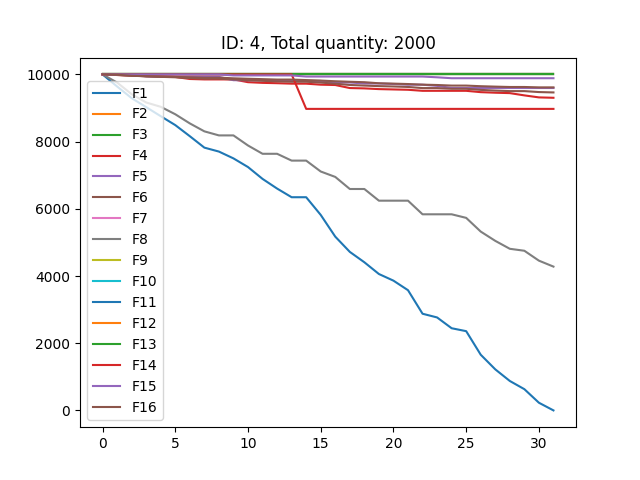
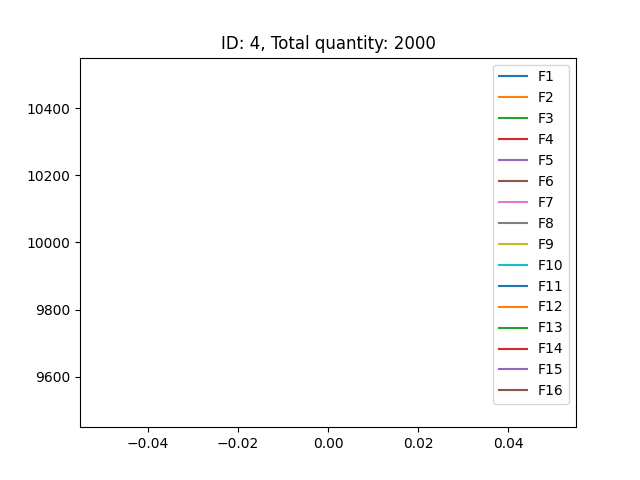
multiprocess

diff --git a/scrap_optimization.py b/scrap_optimization.py
@@ -30,7 +30,7 @@ class ScrapOptimization:
             "features": general_info.features
         }
         
-    def optimize(self, total_quantity:float, chemi_component:list, selected_stahl_name:str):
+    def optimize(self, total_quantity:float, chemi_component:list, selected_stahl_name:str, ns,supplier_quantity_hist,sim_id_hist):
         """
         Args:
             total_quantity (int): the total amount of scraps to optimize in kg 
@@ -48,7 +48,7 @@ class ScrapOptimization:
         df = df[self.general_info.features]   # extract the used features from the dataframe
         
         # convert the `Schrott` model to a pandas dataframe, and extract the `price` column
-        df_schrott = pd.read_csv(self.general_info.scrap_dataset)
+        df_schrott = ns.df_schrott # pd.read_csv(self.general_info.scrap_dataset)
         df_price = df_schrott["price"].to_numpy().astype(np.float32)
         company_count = int(df_schrott[["company"]].nunique())
         
@@ -247,12 +247,12 @@ class ScrapOptimization:
         ############################## Opt Running ##############################
         opt_result = []
         all_results = []
-        supplier_quantity_hist = []
+        # supplier_quantity_hist = []
         
         # check if the optimal schrott list is valid
-        fremd_schrotte = df_schrott[df_schrott["name"].str.startswith("F")].copy()
+        # fremd_schrotte = ns.df_schrott #df_schrott[df_schrott["name"].str.startswith("F")].copy()
         is_negative = False
-        supplier_quantity_hist.append(fremd_schrotte["quantity"].to_list())
+        # supplier_quantity_hist.append(ns.df_schrott["quantity"].to_list())
         
         
         for i in range(self.sim_settings.epochs):
@@ -265,16 +265,22 @@ class ScrapOptimization:
             print("################# Optimizing for SLSQP iteration #################")
             
             # TODO: add the bounds here
-            bounds = Bounds([0.0]*total_variable_length, fremd_schrotte["quantity"].to_list())
+            bounds = Bounds([0.0]*total_variable_length, ns.df_schrott["quantity"].to_list())
             x_ann, loss_ann, c_violation_ann, elapsed_time_ann, objective_values = optimize_grad(constant_column, kreislauf_column, legierung_column,beq, x_start, bounds)
             print("################### original fremd schrotte ###################")
-            print(fremd_schrotte["quantity"].to_list())
+            print(ns.df_schrott["quantity"].to_list())
             # substract the optimal schrott list from the total quantity
             # TODO:remove this condition
             x_ann = np.where(x_ann > 10, x_ann, 0)
-            print("############### ANN result #################", x_ann)
-            fremd_schrotte.loc[:, "quantity"] = fremd_schrotte.loc[:,"quantity"].sub(x_ann)
-            
+            print("############### ANN result #################")
+            print(x_ann)
+            fremd_schrotte = ns.df_schrott.copy()
+            subs = fremd_schrotte.loc[:,"quantity"].sub(x_ann)
+            fremd_schrotte["quantity"] = subs
+            ns.df_schrott = fremd_schrotte
+            # print("############### fremd schrotte after subtraction #################")
+            # print(df_schrott["quantity"].to_list())
+            # set_df_schrott(fremd_schrotte,lock)
             # TODO: here should be the termination condition instead negative
             # if np.sum(np.abs(c_violation_ann)) / np.sum(beq) > 0.2:  first try 20%
             # is_negative = any(fremd_schrotte["quantity"] < 0)
@@ -287,10 +293,13 @@ class ScrapOptimization:
                 _data = f"Simulation:{self.sim_settings.id}- violation is more than threshold:  {violence}>{self.general_info.violation_threshold}. Please try again."
                 # terminate the optimization process
                 print(_data)
+                return
             else:
                 # update and save the database of the schrott quantity
                 try:
-                    supplier_quantity_hist.append(fremd_schrotte["quantity"].to_list())
+                    # supplier_quantity_hist.append(fremd_schrotte["quantity"].to_list())
+                    supplier_quantity_hist.append(ns.df_schrott["quantity"].to_list())
+                    sim_id_hist.append(self.sim_settings.id)
                     result_current = {}
                     
                     optimal_value = objective(x_ann, constant_column, kreislauf_column, legierung_column)
@@ -303,10 +312,10 @@ class ScrapOptimization:
                     if opt_result:
                         if sum(objective_values.values()) < sum(opt_result[0]["objective_values"].values()):
                             opt_result[0] = result_current
-                            fremd_schrotte.to_csv(f"scrap_result_after_buy_{self.sim_settings.id}.csv")
+                            # fremd_schrotte.to_csv(f"scrap_result_after_buy_{self.sim_settings.id}.csv")
                     else:
                         opt_result.append(result_current)
-                        fremd_schrotte.to_csv(f"scrap_result_after_buy_{self.sim_settings.id}.csv")
+                        # fremd_schrotte.to_csv(f"scrap_result_after_buy_{self.sim_settings.id}.csv")
 
                     
                     all_results.append(result_current)
@@ -325,16 +334,16 @@ class ScrapOptimization:
                     with open(f'buy_list_{self.sim_settings.id}.json', 'w') as f:
                         json.dump(_data, f, indent=4)
 
-        for idx, remote_scrap in enumerate(supplier_quantity_hist[0]):
-            values = []
-            for i in range(len(supplier_quantity_hist)):
-                values.append(supplier_quantity_hist[i][idx])
-            plt.plot(range(len(supplier_quantity_hist)), values, label=f"F{idx+1}")
+        # for idx, remote_scrap in enumerate(supplier_quantity_hist[0]):
+        #     values = []
+        #     for i in range(len(supplier_quantity_hist)):
+        #         values.append(supplier_quantity_hist[i][idx])
+        #     plt.plot(range(len(supplier_quantity_hist)), values, label=f"F{idx+1}")
         
-        plt.title(f"ID: {self.sim_settings.id}, Total quantity: {self.sim_settings.total_quantity}")
-        plt.legend()
-        plt.savefig(f"sim_output/simulation_output_{self.sim_settings.id}.png")
-        plt.show()
+        # plt.title(f"ID: {self.sim_settings.id}, Total quantity: {self.sim_settings.total_quantity}")
+        # plt.legend()
+        # plt.savefig(f"sim_output/simulation_output_{self.sim_settings.id}.png")
+        # plt.show()
 
     def fremdschrott_chemi_table(self, df_chemi, fremd_schrotte_names,company_count):
         # construct the chemical table

diff --git a/main.py b/main.py
@@ -1,8 +1,12 @@
 from concurrent.futures import ProcessPoolExecutor
+from multiprocessing import Pool
 
 import numpy as np
 import pandas as pd
+import multiprocessing
+import matplotlib.pyplot as plt
 from pydantic import BaseSettings, BaseModel
+from joblib import Parallel, delayed
 
 
 from scrap_optimization import ScrapOptimization
@@ -33,9 +37,33 @@ class Settings(BaseSettings):
 settings = Settings.parse_file("settings.json")
 simulations = settings.simulations
 general_info = settings.general_info
+supplier_quantity_hist = []
+df_schrott = pd.read_csv(general_info.scrap_dataset)
 
 
-def run_simulation(simulation_settings):
+def get_df_schrott():
+        return df_schrott
+
+
+def set_df_schrott(value, lock):
+    global df_schrott
+    lock.acquire()
+    df_schrott = value
+    lock.release()
+
+
+# def log_fremd_schrotte_quantity(fremd_schrotte_quantity, lock):
+#     print("================== log called ==================")
+#     # global supplier_quantity_hist
+#     lock.acquire()
+#     print("================== lock acquired ==================")
+#     supplier_quantity_hist.append(fremd_schrotte_quantity)
+#     lock.release()
+
+
+def run_simulation(simulation):
+    simulation_settings,df_schrott,supplier_quantity_hist, sim_id_hist = simulation
+
     try:
         so = ScrapOptimization(general_info, simulation_settings)
         steel_chemi_df = pd.read_excel("assets/steel_chemi_components.xlsx")
@@ -43,16 +71,45 @@ def run_simulation(simulation_settings):
         chemies = chemies[['C','Si','Mn','Cr','Mo','V']].values
         chemi_component = [float(i) for i in chemies[0]] 
         print(f"Running optimization for id:{simulation_settings.id}")
-        so.optimize(simulation_settings.total_quantity, chemi_component, simulation_settings.steel_type)
+        so.optimize(simulation_settings.total_quantity, chemi_component, simulation_settings.steel_type, df_schrott, supplier_quantity_hist,sim_id_hist)
     except Exception as e:
         print(e)
 
 
 if __name__ == "__main__":
     # # print(settings)
-    with ProcessPoolExecutor(max_workers=8) as executor:
-         executor.map(run_simulation, simulations)
-    # run_simulation(simulations[0])
+    with multiprocessing.Manager() as manager:
+        lock = manager.Lock()
+        supplier_quantity_hist = manager.list()
+        sim_id_hist = manager.list()
+        ns = manager.Namespace()
+        ns.df_schrott = df_schrott
+
+        simulations = [(item, ns, supplier_quantity_hist, sim_id_hist) for item in simulations]
+        supplier_quantity_hist.append(ns.df_schrott["quantity"].to_list())
+        core_count = 8
+        with Pool(core_count) as p:
+            p.map(run_simulation, simulations)
+        
+        print("len(supplier_quantity_hist): ",len(supplier_quantity_hist))
+        for idx, remote_scrap in enumerate(supplier_quantity_hist[0]):
+            values = []
+            for i in range(len(supplier_quantity_hist)):
+                values.append(supplier_quantity_hist[i][idx])
+            plt.plot(range(len(supplier_quantity_hist)), values, label=f"F{idx+1}")
+
+        # plt.title(f"ID: {self.sim_settings.id}, Total quantity: {self.sim_settings.total_quantity}")
+        plt.legend()
+        # plt.savefig(f"sim_output/simulation_output_{self.sim_settings.id}.png")
+        plt.savefig(f"sim_output/simulation_output.png")
+        plt.show()
+
+        counts = [0]*8
+        for item in sim_id_hist:
+            counts[item-1] += 1
+
+        plt.bar(range(core_count), counts)
+        plt.show()
 
 
         

diff --git a/test_mp.py b/test_mp.py
@@ -1,0 +1,37 @@
+import multiprocessing
+import pandas as pd
+
+class Foo:
+    def __init__(self):
+        self.foo = None
+
+    def proc_func(self, arg):
+        l, ns, val = arg
+        l.append(val)
+        ns.df = pd.DataFrame(data={'col1': [10, 20], 'col2': [3, 4]})
+
+def simulation(arg):
+    foo = Foo()
+    foo.proc_func(arg)
+
+
+
+
+if __name__ == "__main__":
+    # with multiprocessing.Manager()as manager:
+    #     d = {'col1': [1, 2], 'col2': [3, 4]}
+    #     df = pd.DataFrame(data=d)
+    #     shared_list = manager.list()
+    #     namespace = manager.Namespace()
+    #     namespace.df = df
+
+    #     with multiprocessing.Pool(5) as pool:
+    #         pool.map(simulation, [(shared_list,namespace, 1), (shared_list,namespace,2), (shared_list,namespace,3)])
+
+
+    #     print(namespace.df)
+    d = {'col1': [1, 2], 'col2': [3, 4]}
+    df = pd.DataFrame(data=d)
+    res = df.loc[:,"col1"].sub([1,2])
+    df["col1"] = res
+    print(df)
